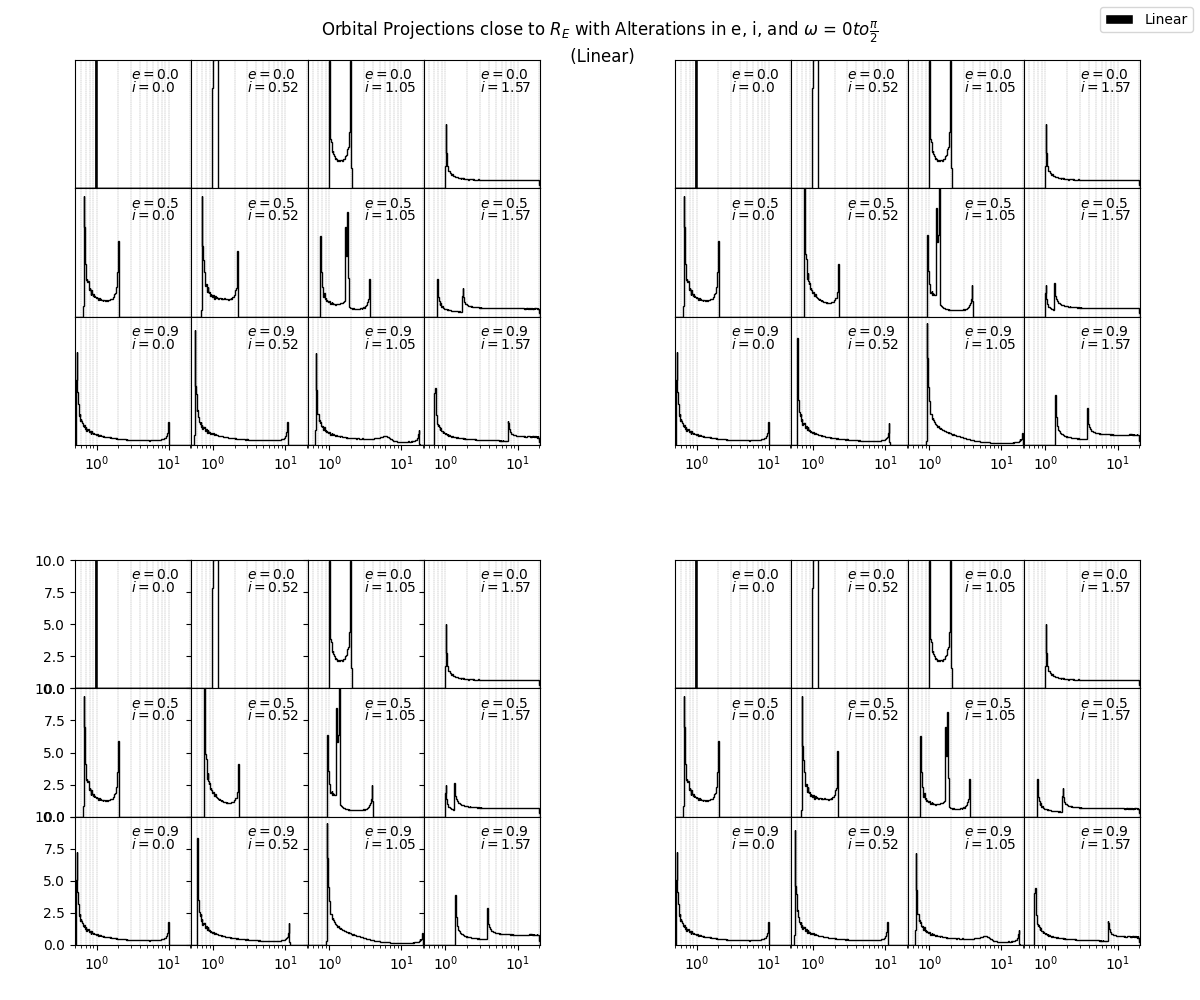
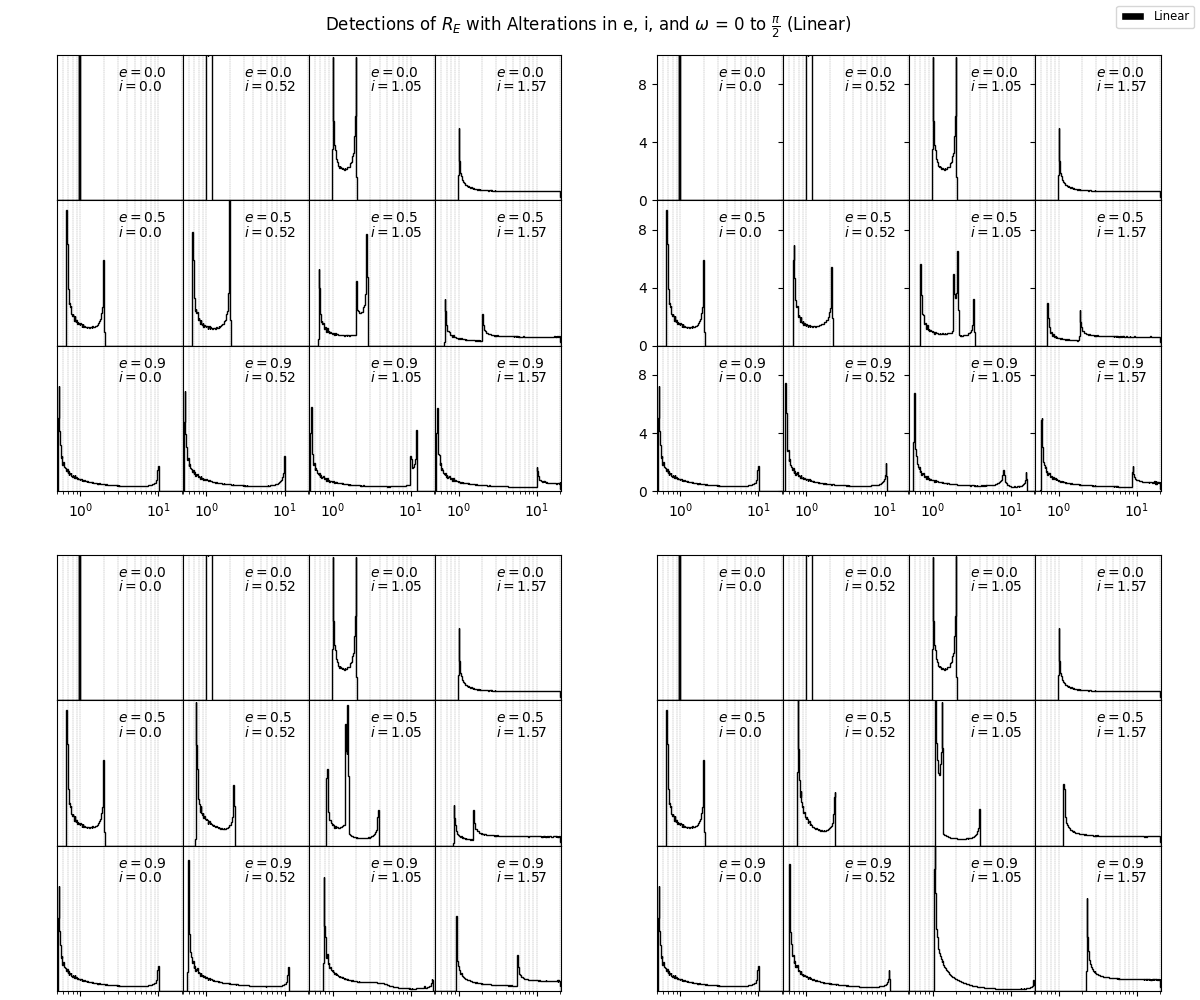
Worked on making MultiPlot have 4 plots in one figure, removed some plots from files

diff --git a/Sep_plot.py b/Sep_plot.py
@@ -16,6 +16,7 @@ from itertools import repeat
 from Sep_gen import Sep_gen
 import click
 import os
+import matplotlib.gridspec as gridspec
 
 matplotlib.use("Agg")
 class Sep_plot(Sep_gen):
@@ -195,16 +196,16 @@ class Sep_plot(Sep_gen):
             i+=1
             
         
-        fig = plt.figure(figsize = (11,9))
+        fig = plt.figure(figsize = (13,9))
         # Makes the 2 x 2 figure for the 3 x 4 figures to go into
-        subfigs = fig.subfigures(2,2,hspace = 0,wspace = 0)            
+        subfigs = fig.subfigures(2,2, hspace = 0, wspace = 0)            
         
-        fig.suptitle("Orbital Projection with Alterations in e, i, and "r"$\omega$ = $\frac{\pi}{4}$")
+        fig.suptitle("Orbital Projection with Alterations in e, i, and "r"From $\omega$ 0 to $\ \frac{\pi}{2}$", x = 0.49, y = 0.985)
         for outer, subfig in enumerate(subfigs.flat):
             
             list, totparam, listt = totlist[outer]
             # Iterates through each subplot in the 3x4 figure
-            axs = subfig.subplots(3,4,sharex=True,sharey=True,gridspec_kw=dict(hspace=0,wspace=0)) 
+            axs = subfig.subplots(3,4, gridspec_kw = {"hspace" : 0, "wspace" : 0})
             for j, ax  in enumerate(axs.flatten()):
                 
                 # Takes the first data set in the list
@@ -283,20 +284,24 @@ class Sep_plot(Sep_gen):
                 # Limits
                 ax.set_xlim(-2,2)
                 ax.set_ylim(-2,2)
+                
+                
+                # if outer == 2:
+                    # ax.text(-18,7.95,"e=0")
+                    # ax.text(-18,3.95,"e=0.5")
+                    # ax.text(-18,-0.1,"e=0.9")
+                    # ax.text(-18,10.25,"i=0")
+                    # ax.text(-8.25,10.25,r"i=$\frac{\pi}{6}$")
+                    # ax.text(-4.25,10.25,r"i=$\frac{\pi}{3}$")
+                    # ax.text(0,10.25,r"i=$\frac{\pi}{2}$")
+                # else:
                 ax.set_xticks([])
                 ax.set_yticks([])
-                
-                if outer == 2:
-                    ax.text(-15.75,7.95,"e=0")
-                    ax.text(-15.75,3.95,"e=0.5")
-                    ax.text(-15.75,-0.1,"e=0.9")
-                    ax.text(-12.25,10.25,"i=0")
-                    ax.text(-8.25,10.25,"i=$\frac{\pi}{6}$")
-                    ax.text(-4.25,10.25,"i=\frac{\pi}{3}")
-                    ax.text(0,10.25,"i=\frac{\pi}{2}")
+                    
         
         # Shows the legend of each data point
-        fig.legend(handles,labels,fontsize="small")
+        fig.legend(handles,labels,fontsize="small", prop = {"size":8}, borderpad = 0.5, labelspacing = 0.75, handlelength = 2)
+        fig.tight_layout(pad=0.05, rect = (0.02, 0.02, 0.95, 0.95))
         # Shows where the data values change according to the plot 
         # subfig.text(-15.75,7.95,"e=0")
         # subfig.text(-15.75,3.95,"e=0.5")
@@ -336,12 +341,11 @@ class Sep_plot(Sep_gen):
         fig = plt.figure(figsize = (12,10))
         
         if which == "Linear":
-            fig.suptitle("Orbital Projections close to $R_E$ with Alterations in e, i, and "r"$\omega$ = $0 to \frac{\pi}{2}$" f"\n ({which})")
+            fig.suptitle("Detections of $R_E$ with Alterations in e, i, and "r"$\omega$ = $0 \ \text{to} \ \frac{\pi}{2}$" f" ({which})", x = 0.49, y = 0.985)
         else:
-            fig.suptitle("Orbital Projection close to $R_E$ with Alterations in e, i, and "r"$\omega$ = $0 to \frac{\pi}{2}$" f"\n (For Linear, Log, & Power Law)")
+            fig.suptitle("Detections of $R_E$ with Alterations in e, i, and "r"$\omega$ = $0 \ \text{to} \ \frac{\pi}{2}$" f"\n (For Linear, Log, & Power Law)", x = 0.49, y = 0.985)
         # Makes the 2 x 2 figure for the 3 x 4 figures to go into
-        subfigs = fig.subfigures(2,2)            
-        plt.subplots_adjust(hspace = 0.2, wspace= 0.2)
+        subfigs = fig.subfigures(2,2, hspace = 0, wspace = 0)
         for outer, subfig in enumerate(subfigs.flat):
             
             totlist, param = rtotlist[outer]
@@ -349,6 +353,9 @@ class Sep_plot(Sep_gen):
             axs = subfig.subplots(3,4,sharex=True,sharey=True,gridspec_kw=dict(hspace=0,wspace=0)) 
             
             for j, ax  in enumerate(axs.flatten()):
+                # xticks = ax.xaxis.get_major_ticks()
+                # xticks.lable1.set_visible(False)
+                
                 steplindict, x, y, steplogdict, steplinsemidict = totlist[j]
                 
                 iterparam = param[j]
@@ -417,8 +424,12 @@ class Sep_plot(Sep_gen):
                         patch.set_edgecolor("b")
                 ax.set_xlim(0.5,20.5)
                 ax.set_ylim(0,10)
-                if outer != 2:
+                if outer == 1:
+                    ax.xaxis.set_major_locator(plt.MaxNLocator(2))
+                    ax.yaxis.set_major_locator(plt.MaxNLocator(3))
+                else:
                     ax.set_yticks([])
+                    ax.set_xticks([])
                 ax.set_xscale("log")
                 ax.text(3e0, 8.5, f"$e = {iterparam[0]}$") 
                 ax.text(3e0, 7.5, f"$i = {round(iterparam[1],2)}$")
@@ -429,7 +440,8 @@ class Sep_plot(Sep_gen):
             labels = ["Linear"]
         else:
             labels = ["Linear", "Log", r"Power Law: $\alpha = 2$"]
-        fig.legend(handles, labels)
+        fig.legend(handles,labels,fontsize="small")
+        fig.tight_layout(pad=1.25,h_pad=0, w_pad=0, rect = (0.08, 0.0, 0.95, 0.95))
         if which == "Linear":
             plt.savefig(f'/College Projects/Microlensing Separation/Figures/MultiHist_omegas_0002_{which}.png')
         else:
@@ -575,10 +587,10 @@ class Sep_plot(Sep_gen):
                     
         if inclination and len(estep_outer) == 0:
             fig, axs = plt.subplots(3,3,figsize = (9,9), sharex=True,sharey=True,gridspec_kw=dict(hspace=0,wspace=0))
-            fig.suptitle("Orbital Projection with Alterations in e = 0.1-0.9, "r"$\cos{i} = 0$ to 1 , and " r"$\omega$ = $0$ to $\frac{\pi}{2}$" f"\n ({which})")
+            fig.suptitle("Detections of $R_E$ with marginalizations for "r"$\cos{i} = 0$ to 1 , and " r"$\omega$ = $0$ to $\frac{\pi}{2}$" f"\n ({which})")
         elif len(estep_outer) == 0:
             fig, axs = plt.subplots(3,4, figsize = (9,9), sharex=True,sharey=True,gridspec_kw=dict(hspace=0,wspace=0))               
-            fig.suptitle("Orbital Projection with Alterations in e = 0.1-0.9, "r"$\cos{i} = 0$ to 1 , and " r"$\omega$ = $0$ to $\frac{\pi}{2}$" f"\n ({which})")
+            fig.suptitle("Detections of $R_E$ with marginalizations for "r"$\cos{i} = 0$ to 1 , and " r"$\omega$ = $0$ to $\frac{\pi}{2}$" f"\n ({which})")
         # Iterates through each subplot in the 3x4 figure
         if inclination == False:
             for j, ax  in enumerate(axs.flatten()):
@@ -725,7 +737,7 @@ class Sep_plot(Sep_gen):
         
         # FIGURE FOR SEMIMAJOR AXIS
         fig, ax = plt.subplots(figsize = (9,9), sharex=True,sharey=True,gridspec_kw=dict(hspace=0,wspace=0))
-        fig.suptitle("Orbital Projection with Marginalizations in e = 0.0-0.9, "r"$\cos{i} = 0$ to 1 , and " r"$\omega$ = $0$ to $\frac{\pi}{2}$" f"\n ({which})")        
+        fig.suptitle("Detections of $R_E$ with marginalizations for e = 0.0-0.9, "r"$\cos{i} = 0$ to 1 , and " r"$\omega$ = $0$ to $\frac{\pi}{2}$" f"\n ({which})")        
         # Combine Histogram Calculations
         for i in range(len(totlist)):
             histlist = totlist[i]
@@ -802,8 +814,8 @@ if __name__ == "__main__":
     which = "Linear"
     unity = "False"
     tothist = Sep_plot(numestep=numestep, numdiv=numdiv)
-    rlist = tothist.MultiPlotProj(w = 0, start = 0.5, end = 20, step = 0.5)
-    # rtemp = tothist.MultiPlotHist(w = 0, step = 0.002, end = 20, which = which)
+    # rlist = tothist.MultiPlotProj(w = 0, start = 0.5, end = 20, step = 0.5)
+    rtemp = tothist.MultiPlotHist(w = 0, step = 0.002, end = 20, which = which)
     
     #step, end, inclination, which, estep_outer, inum, wnum
     # clist = tothist.CompletePlotHist([0.002, 20, True,"Linear", [], 75, 75])
